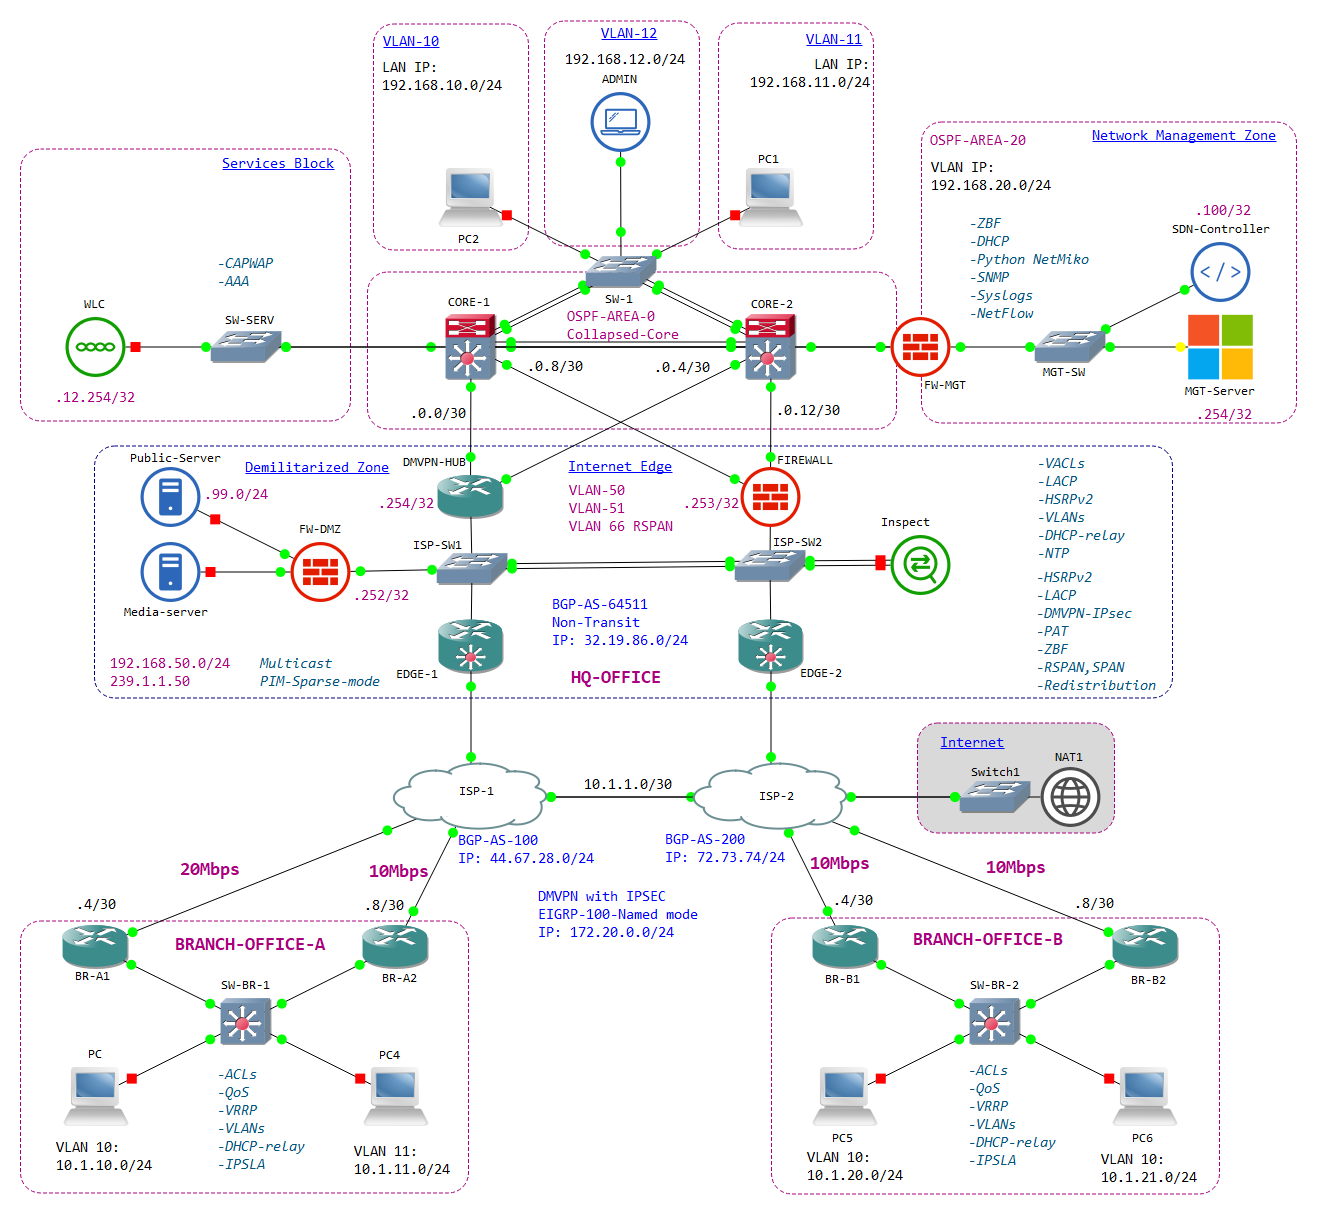
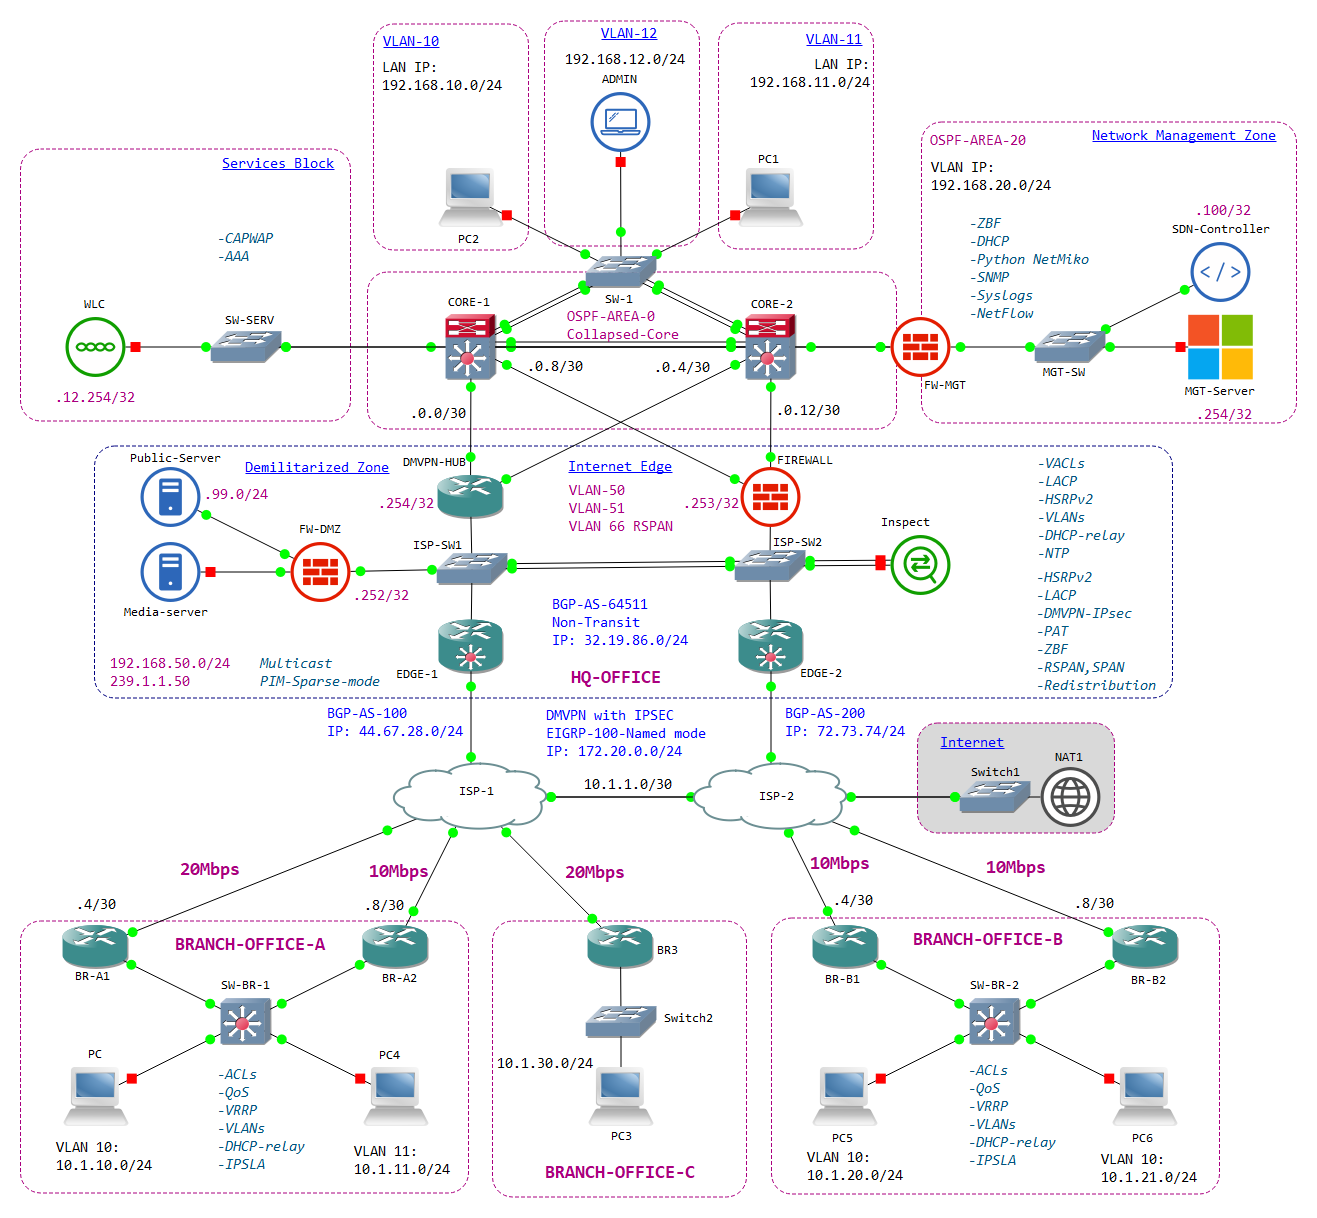
Update 4th March

diff --git a/Network/Devices.py b/Network/Devices.py
@@ -30,7 +30,15 @@ Spokes  =  {
                       'secret': Secret,
                       'password': Password,
                       'ip':'172.20.0.5'
-                    }
+                    },
+            
+             'BR-C':{
+                      'device_type':'cisco_ios',
+                      'username': Username,
+                      'secret': Secret,
+                      'password': Password,
+                      'ip':'172.20.0.7'
+                    }         
             }
 Area_0 =  {
           'CORE-1': {
@@ -131,5 +139,19 @@ Switches= {
                       'secret': Secret,
                       'password': Password,
                       'ip':'192.168.12.253'
-                    }       
+                    },
+        'SW1-Edge': {
+                      'device_type':'cisco_ios',
+                      'username': Username,
+                      'secret': Secret,
+                      'password': Password,
+                      'ip':'10.0.50.10'
+                    },
+        'SW2-Edge': {
+                      'device_type':'cisco_ios',
+                      'username': Username,
+                      'secret': Secret,
+                      'password': Password,
+                      'ip':'10.0.50.11'
+                    }               
           }
